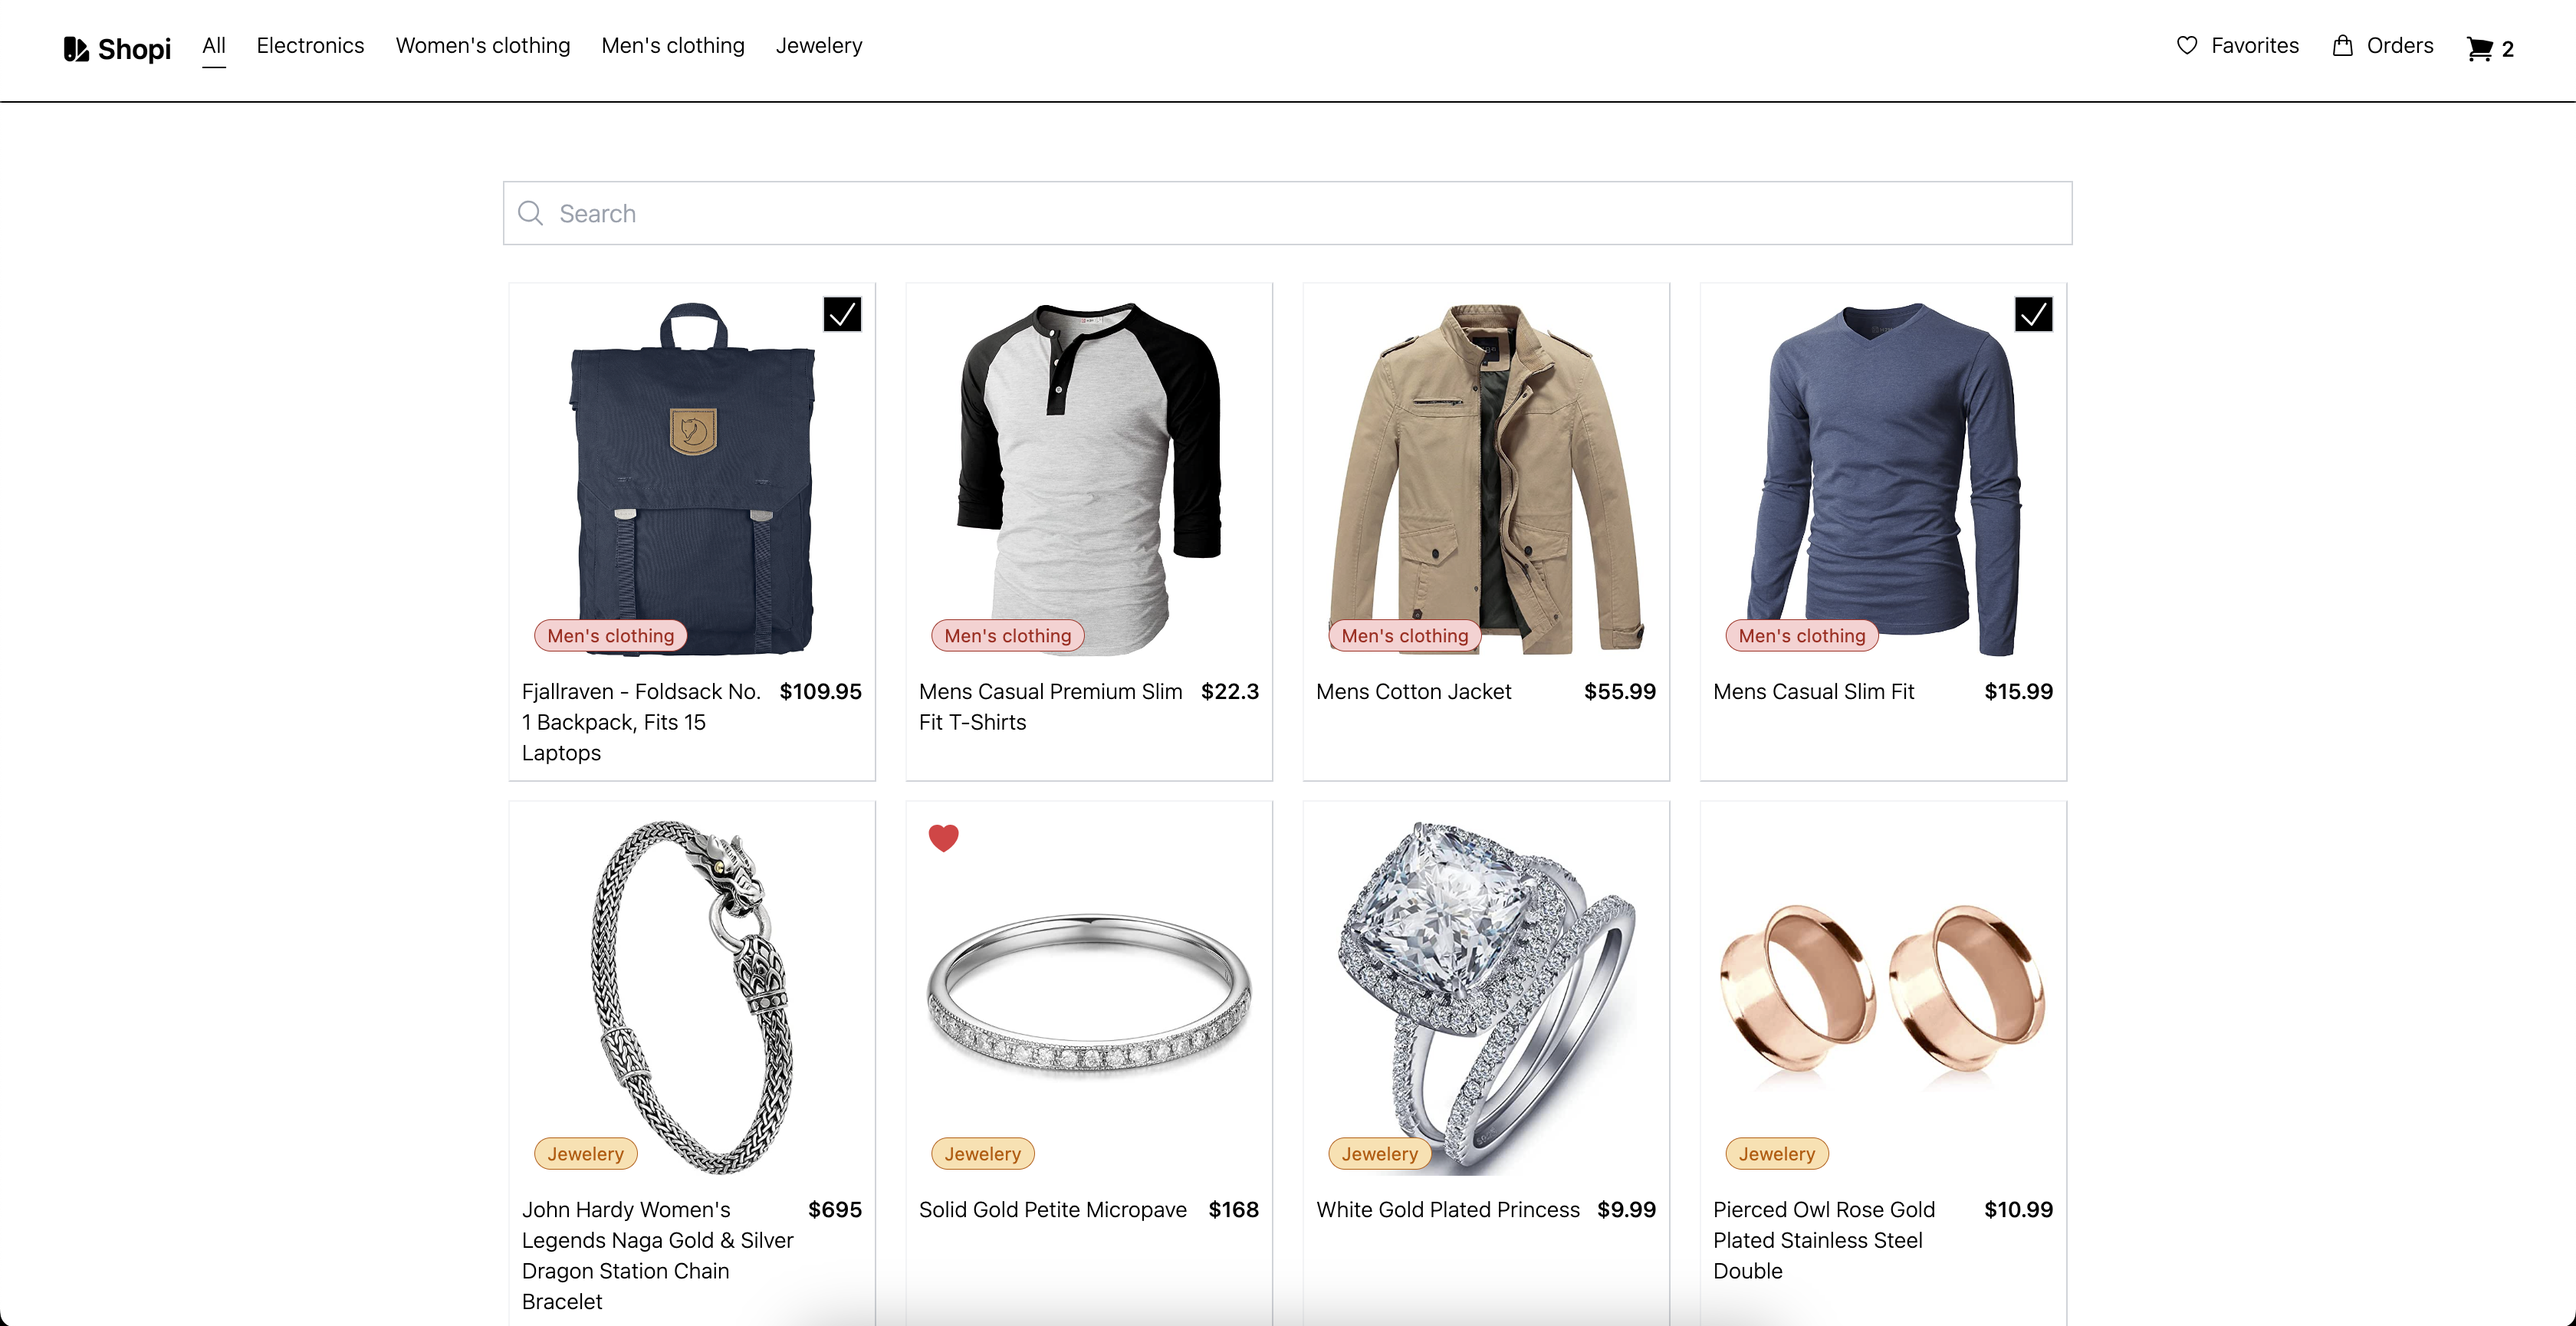
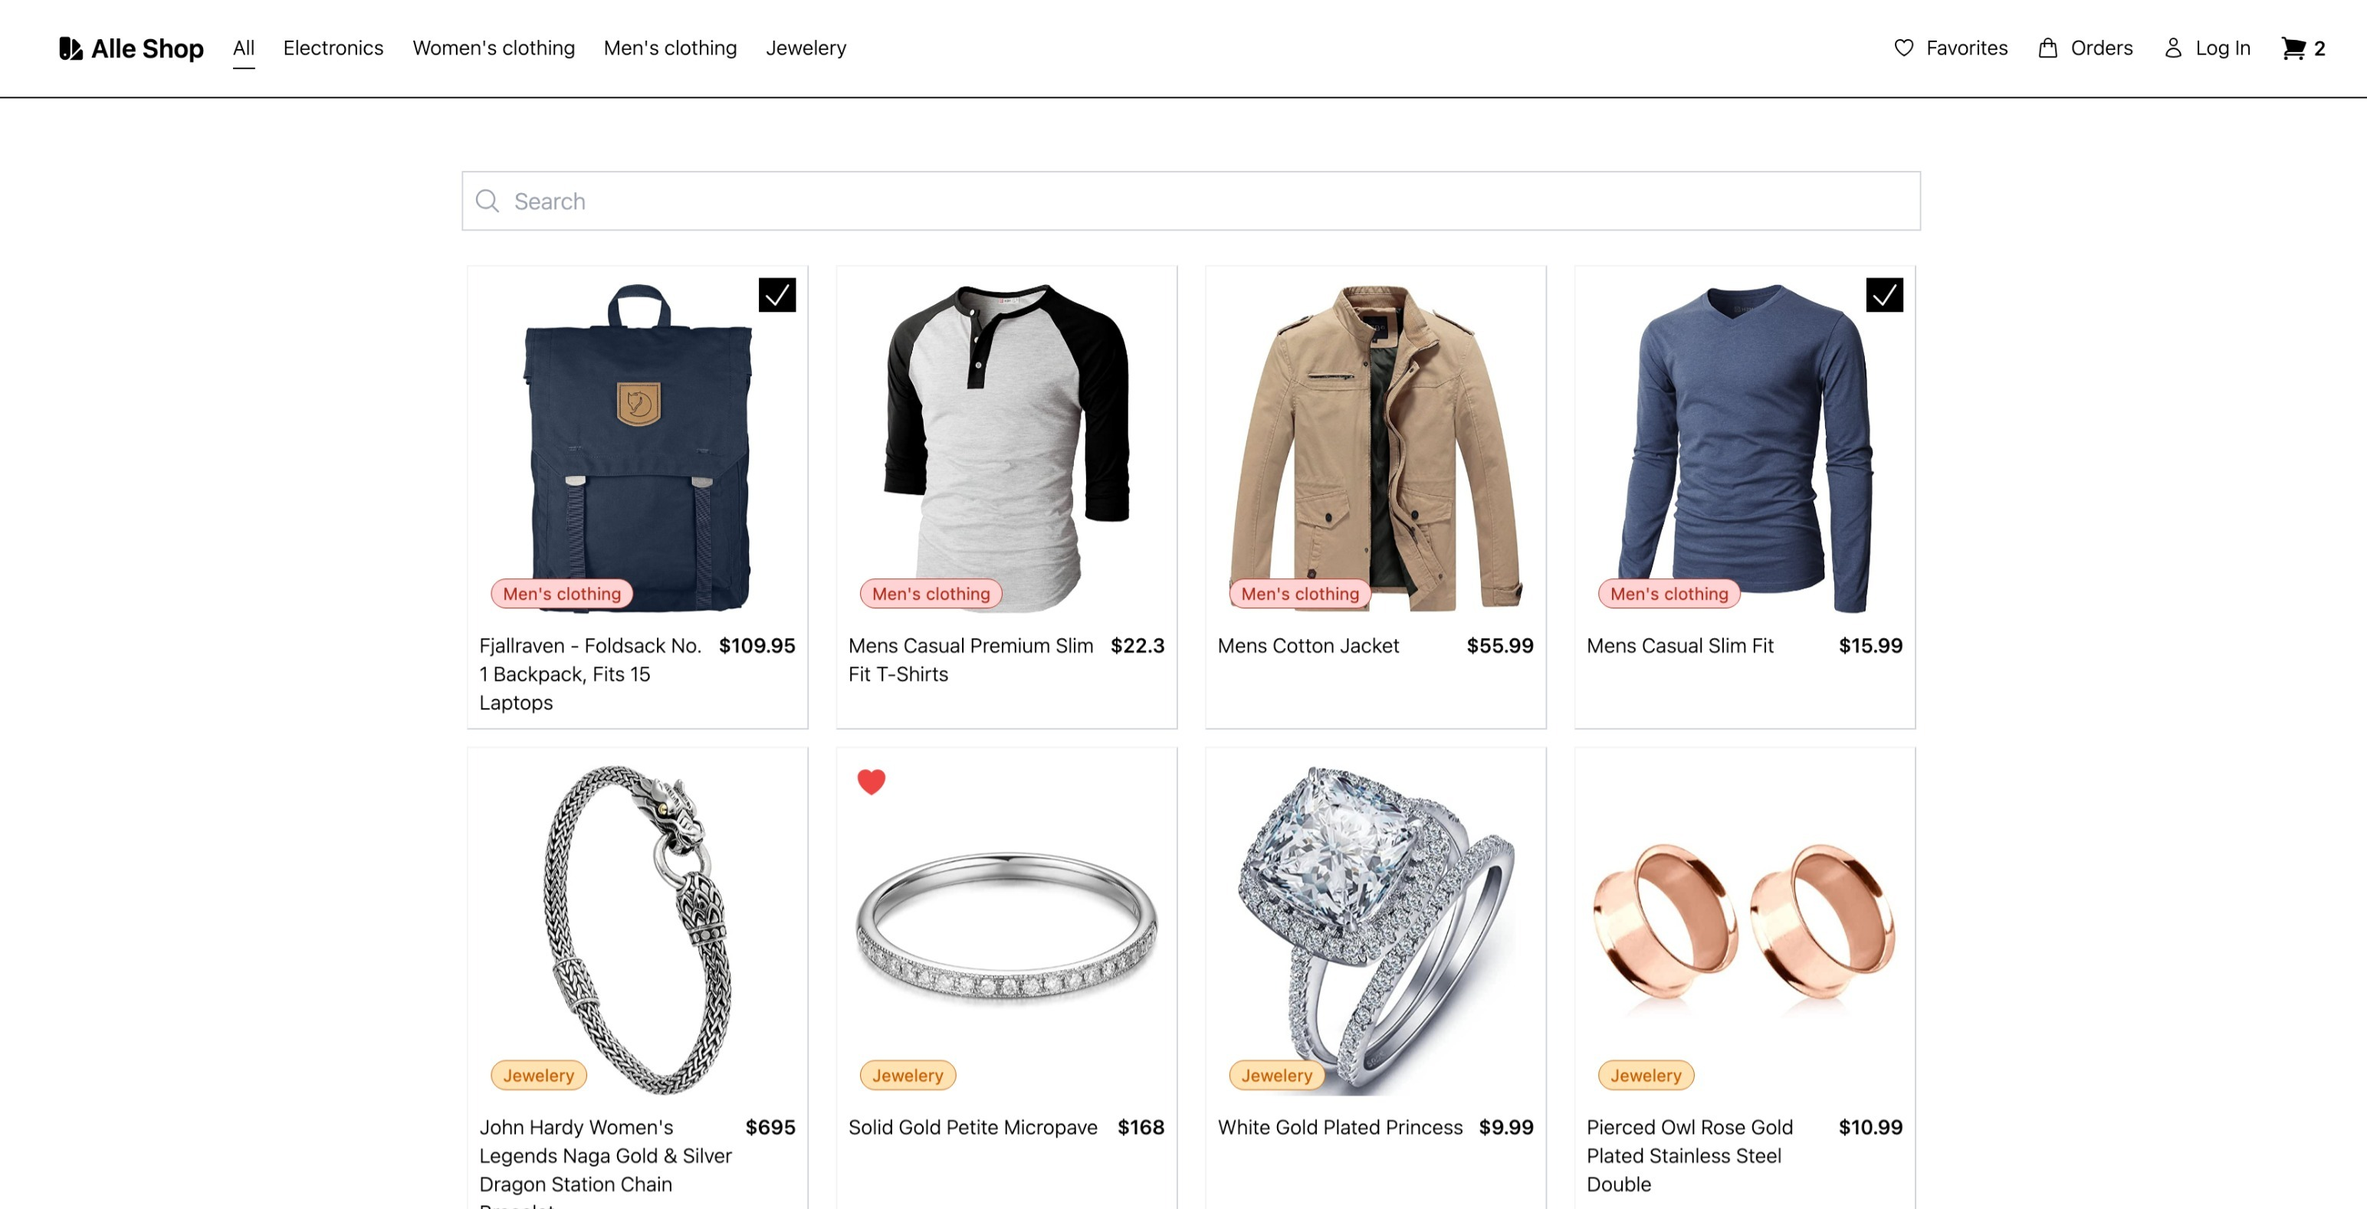
Update README.md

diff --git a/README.md b/README.md
@@ -2,13 +2,14 @@
 
 ![](/public/preview.png)
 
-It's an e-commerce that simulates the visualization of different products, the checkout, favorites, etc.
+It's an e-commerce that simulates the visualization of different products, the checkout, favorites, account, etc.
 
 ## Built with
 
 -   React.js
 -   TypeScript
 -   TailwindCSS
+-   Firebase
 
 ## Author
 
